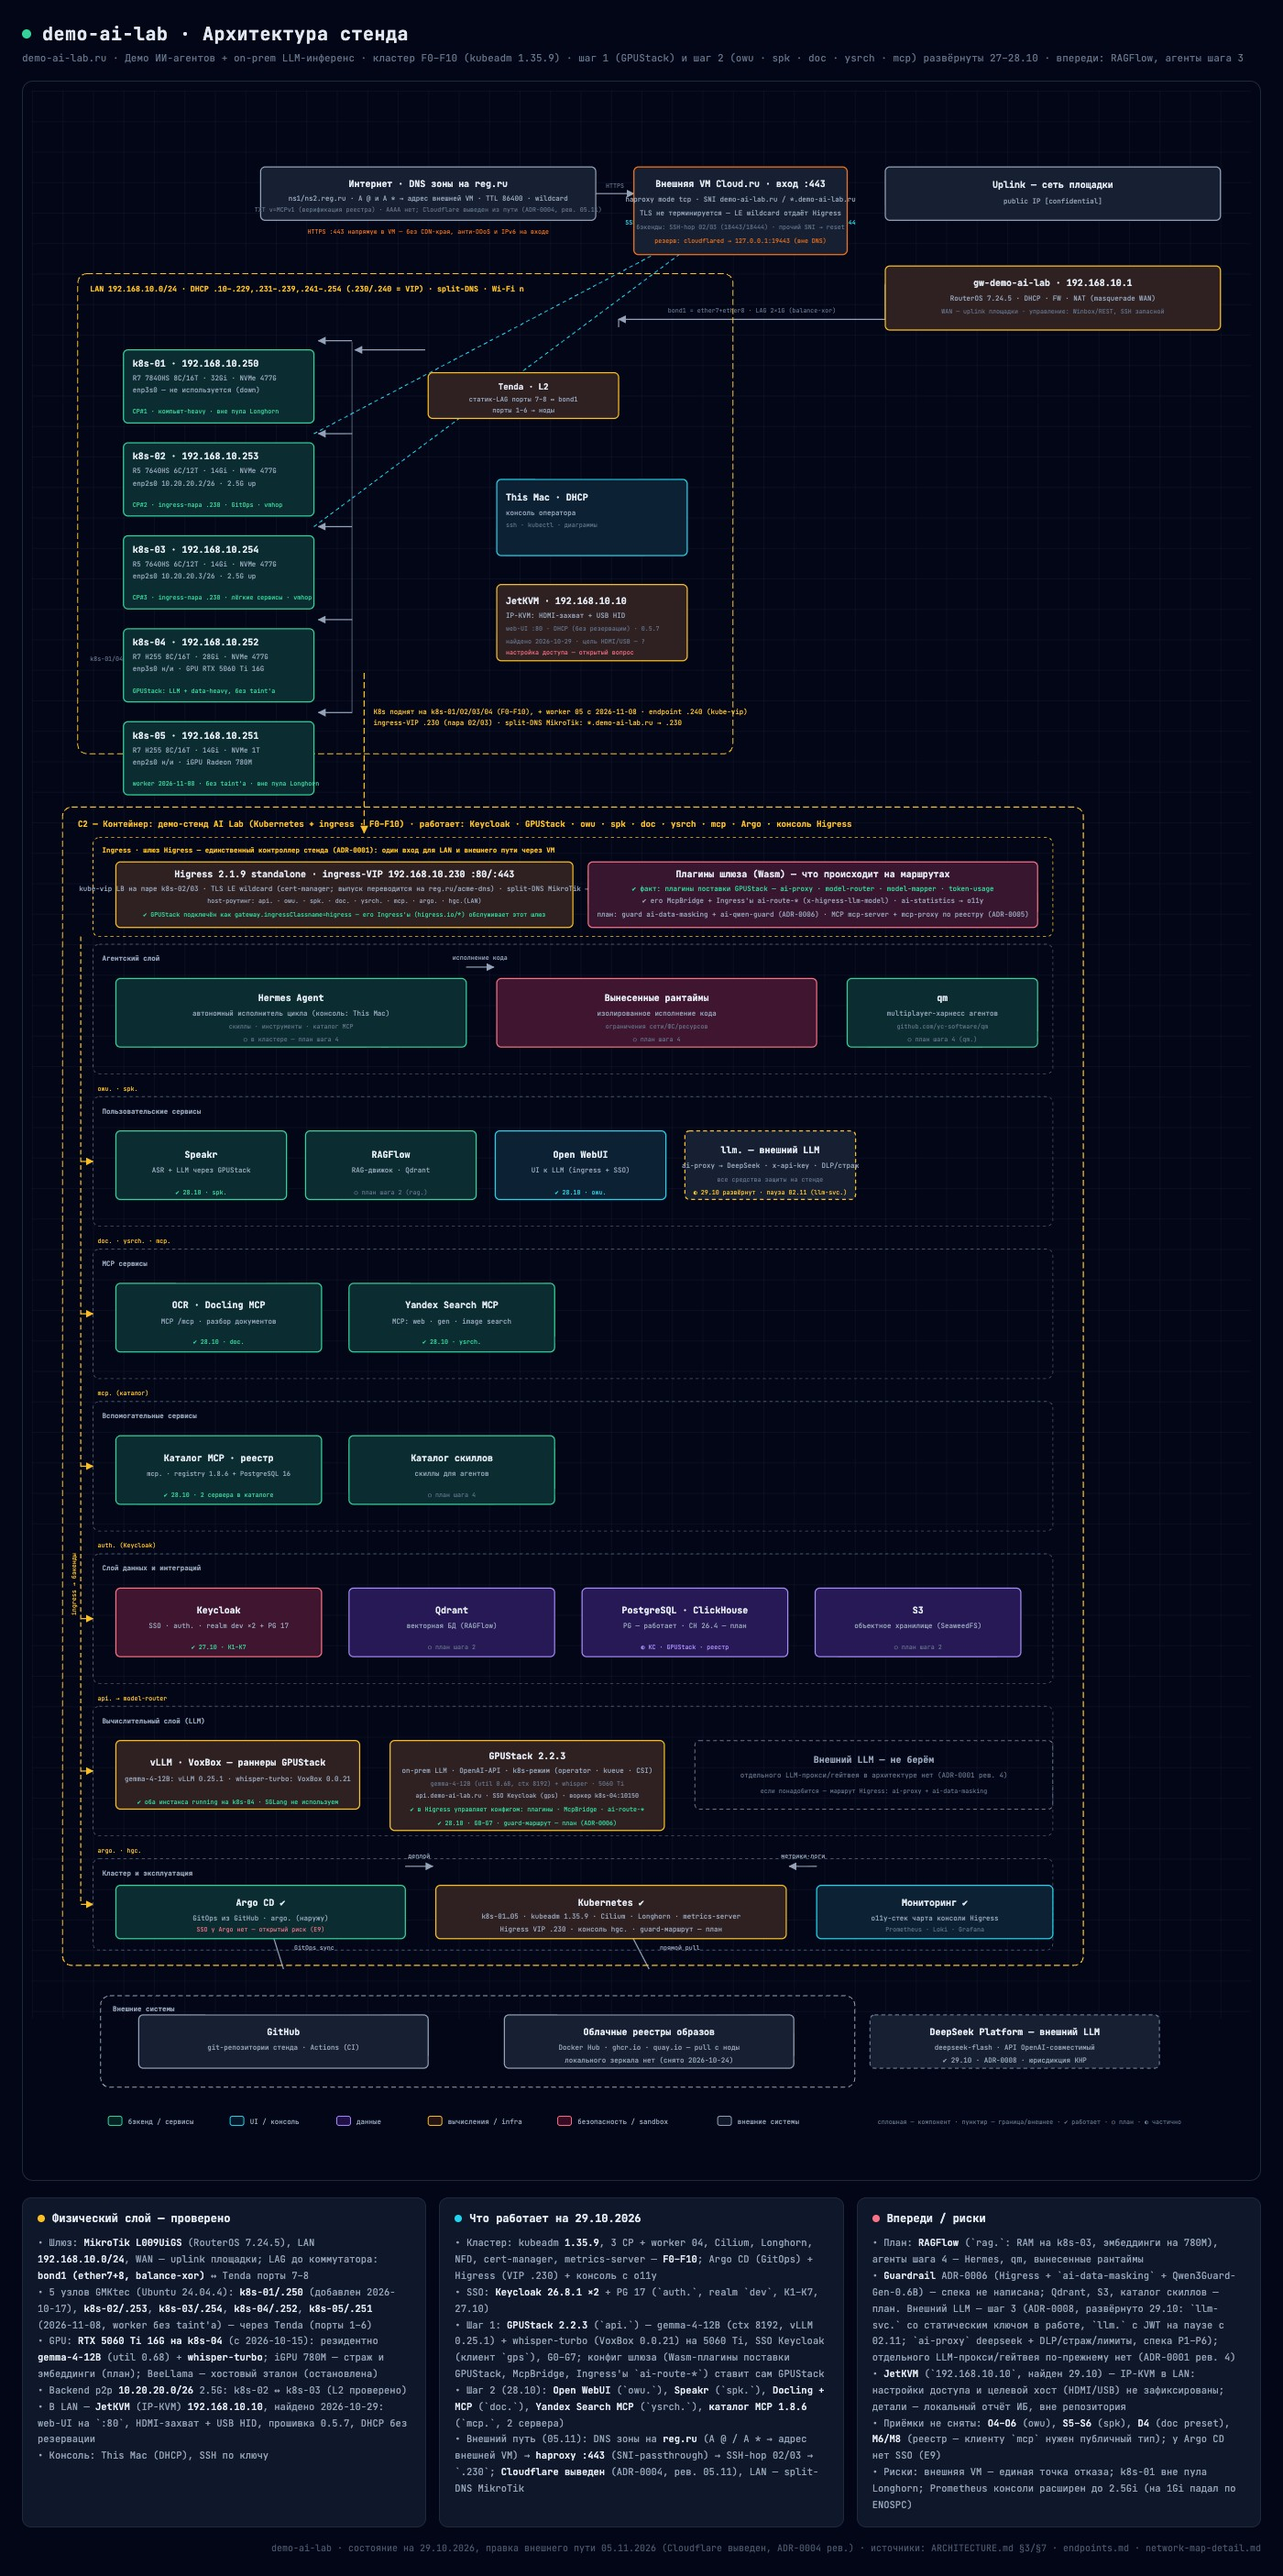
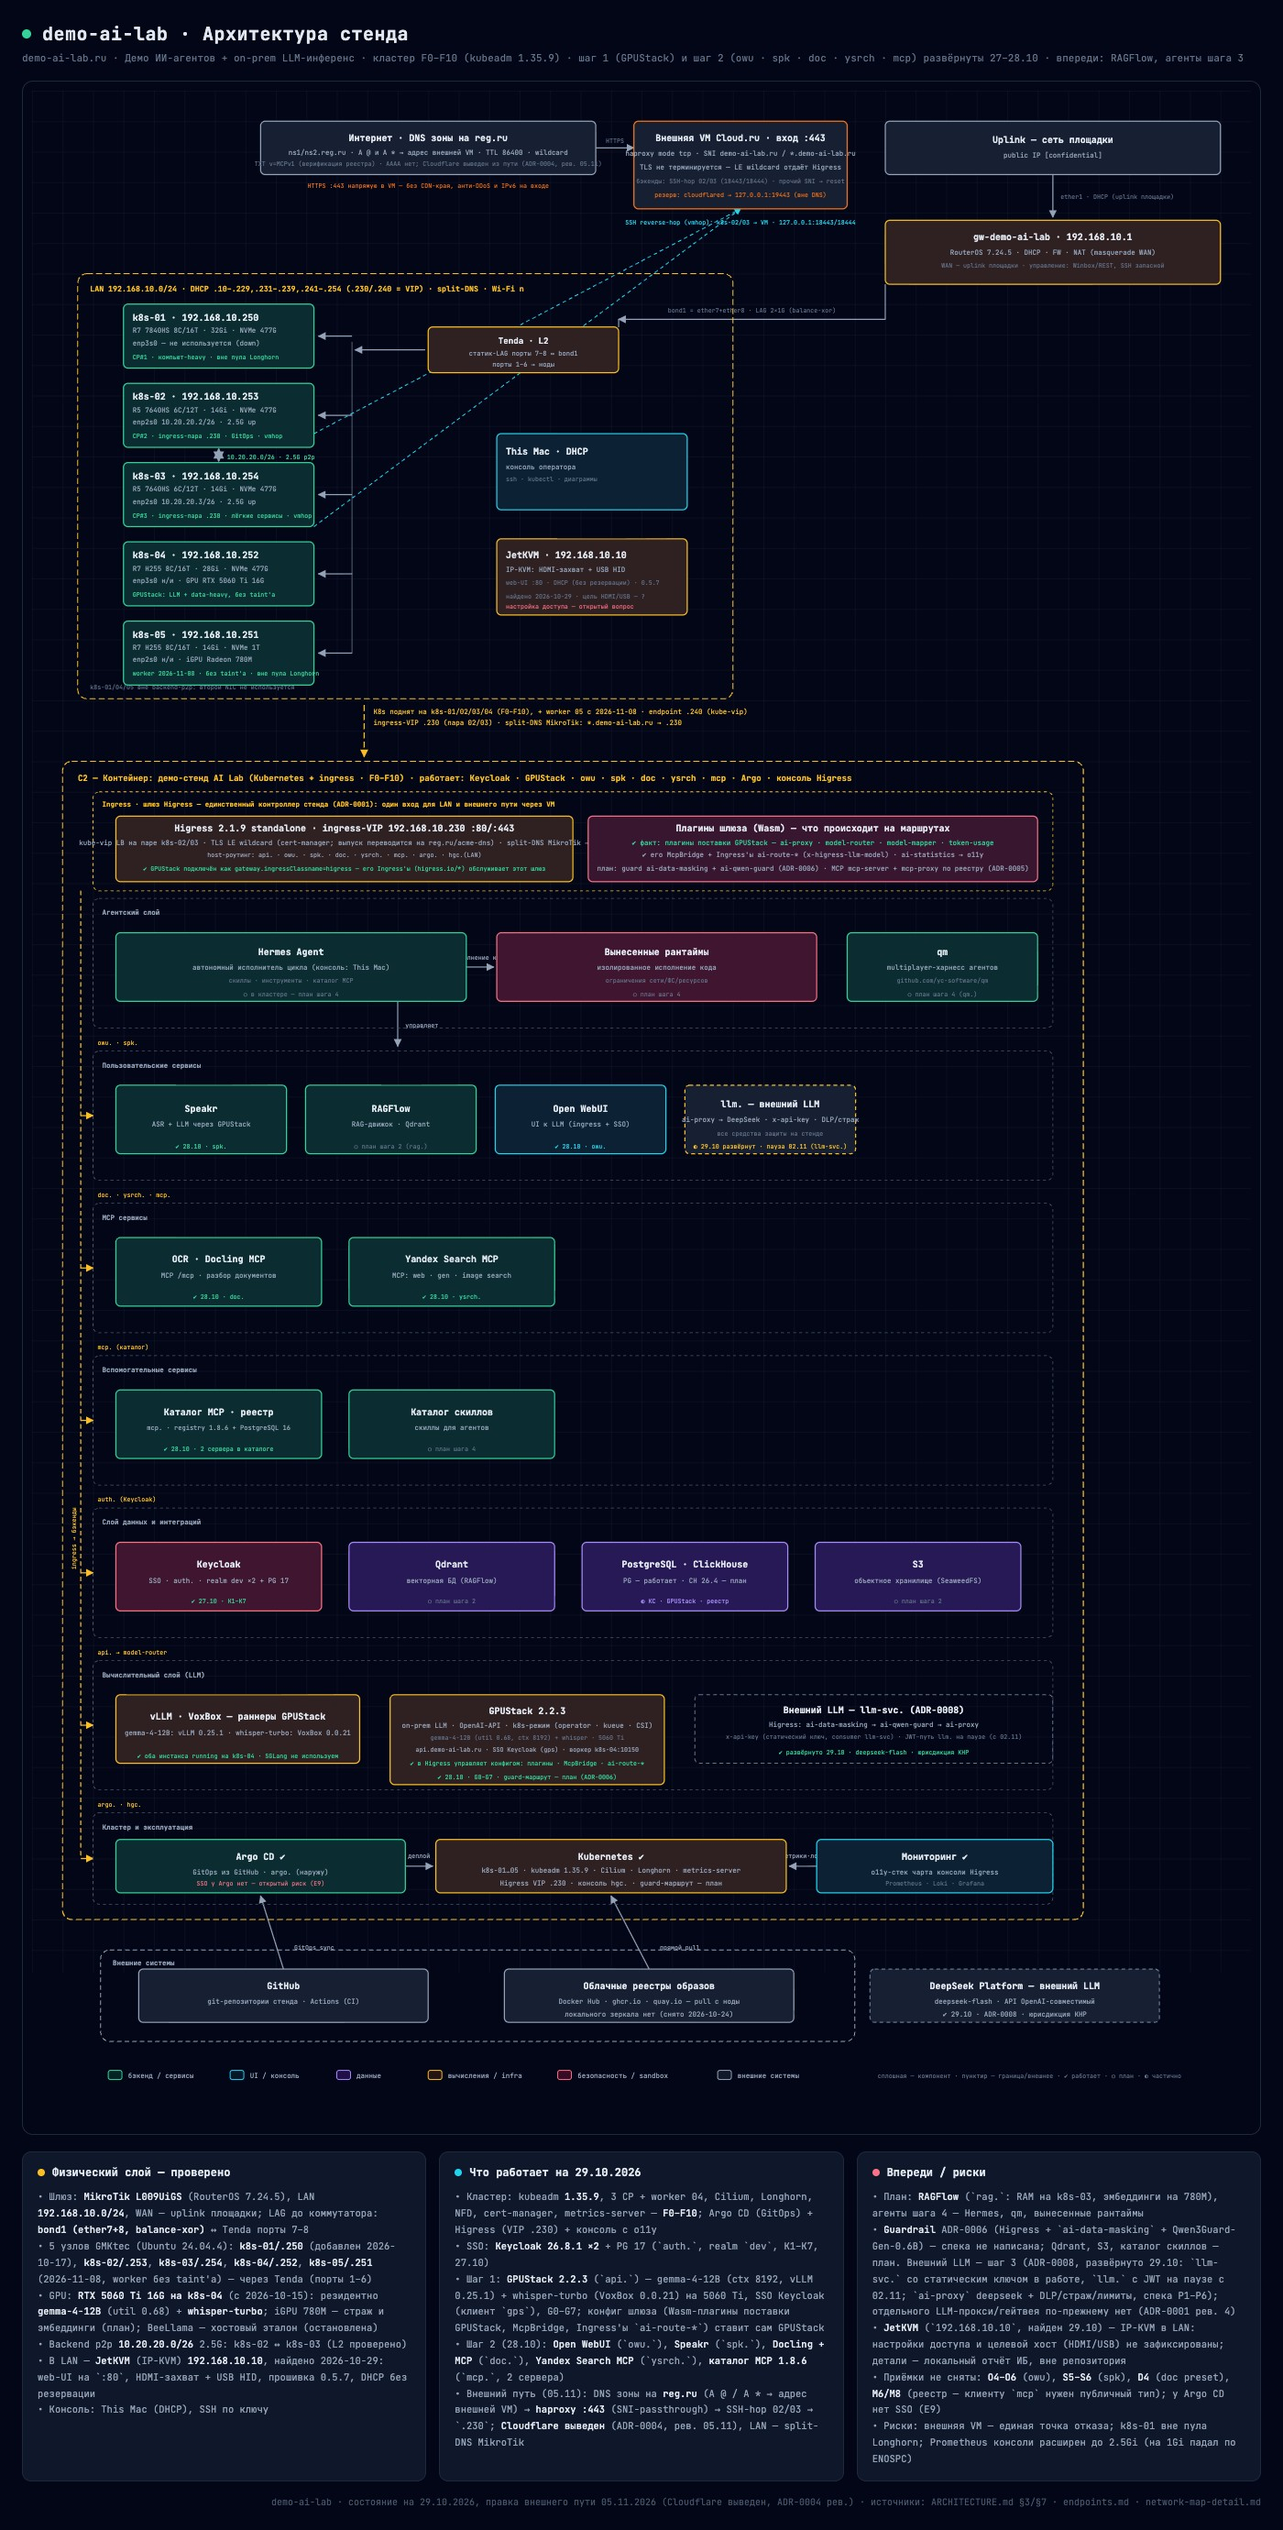
диаграмма: компактная вёрстка LAN (сдвиг C2 отменён), стрелка на границу; карточка внешнего LLM — llm-svc (ADR-0008), не 'не берём'

diff --git a/architecture/demo-ai-lab-architecture.html b/architecture/demo-ai-lab-architecture.html
@@ -58,7 +58,7 @@
 <div class="subtitle">demo-ai-lab.ru · Демо ИИ-агентов + on-prem LLM-инференс · кластер F0–F10 (kubeadm 1.35.9) · шаг 1 (GPUStack) и шаг 2 (owu · spk · doc · ysrch · mcp) развёрнуты 27–28.10 · впереди: RAGFlow, агенты шага 3</div>
 
 <div class="diagram-card">
-<svg viewBox="0 0 1600 2730" xmlns="http://www.w3.org/2000/svg">
+<svg viewBox="0 0 1600 2670" xmlns="http://www.w3.org/2000/svg">
   <defs>
     <pattern id="grid" width="40" height="40" patternUnits="userSpaceOnUse">
       <path d="M 40 0 L 0 0 0 40" fill="none" stroke="#1e293b" stroke-width="0.5"/>
@@ -77,8 +77,8 @@
     </marker>
   </defs>
 
-  <rect width="1600" height="2530" fill="#020617"/>
-  <rect width="1600" height="2530" fill="url(#grid)"/>
+  <rect width="1600" height="2470" fill="#020617"/>
+  <rect width="1600" height="2470" fill="url(#grid)"/>
 
   <!-- ==================== ARROWS (behind boxes) ==================== -->
   <!-- uplink -> mikrotik -->
@@ -91,17 +91,17 @@
   <text x="945" y="291" font-size="8" fill="#64748b" text-anchor="middle">bond1 = ether7+ether8 · LAG 2×1G (balance-xor)</text>
   <!-- tenda -> LAN bus -> nodes -->
   <line x1="516" y1="340" x2="424" y2="340" stroke="#94a3b8" stroke-width="1.5" marker-end="url(#arr)"/>
-  <line x1="420" y1="330" x2="420" y2="816" stroke="#64748b" stroke-width="1"/>
-  <line x1="420" y1="328" x2="376" y2="328" stroke="#94a3b8" stroke-width="1.5" marker-end="url(#arr)"/>
-  <line x1="420" y1="450" x2="376" y2="450" stroke="#94a3b8" stroke-width="1.5" marker-end="url(#arr)"/>
-  <line x1="420" y1="572" x2="376" y2="572" stroke="#94a3b8" stroke-width="1.5" marker-end="url(#arr)"/>
-  <line x1="420" y1="694" x2="376" y2="694" stroke="#94a3b8" stroke-width="1.5" marker-end="url(#arr)"/>
-  <line x1="420" y1="816" x2="376" y2="816" stroke="#94a3b8" stroke-width="1.5" marker-end="url(#arr)"/>
+  <line x1="420" y1="330" x2="420" y2="738" stroke="#64748b" stroke-width="1"/>
+  <line x1="420" y1="322" x2="376" y2="322" stroke="#94a3b8" stroke-width="1.5" marker-end="url(#arr)"/>
+  <line x1="420" y1="426" x2="376" y2="426" stroke="#94a3b8" stroke-width="1.5" marker-end="url(#arr)"/>
+  <line x1="420" y1="530" x2="376" y2="530" stroke="#94a3b8" stroke-width="1.5" marker-end="url(#arr)"/>
+  <line x1="420" y1="634" x2="376" y2="634" stroke="#94a3b8" stroke-width="1.5" marker-end="url(#arr)"/>
+  <line x1="420" y1="738" x2="376" y2="738" stroke="#94a3b8" stroke-width="1.5" marker-end="url(#arr)"/>
   <!-- p2p backend -->
-  <line x1="245" y1="498" x2="245" y2="520" stroke="#34d399" stroke-width="2" marker-start="url(#arr)" marker-end="url(#arr)"/>
-  <text x="256" y="513" font-size="8" fill="#34d399">10.20.20.0/26 · 2.5G p2p</text>
+  <line x1="245" y1="470" x2="245" y2="486" stroke="#34d399" stroke-width="2" marker-start="url(#arr)" marker-end="url(#arr)"/>
+  <text x="256" y="484" font-size="8" fill="#34d399">10.20.20.0/26 · 2.5G p2p</text>
   <!-- bridge: LAN -> C2 -->
-  <line x1="436" y1="764" x2="436" y2="974" stroke="#fbbf24" stroke-width="1.5" stroke-dasharray="8,4" marker-end="url(#arrAmber)"/>
+  <line x1="436" y1="806" x2="436" y2="874" stroke="#fbbf24" stroke-width="1.5" stroke-dasharray="8,4" marker-end="url(#arrAmber)"/>
   <text x="448" y="818" font-size="9" fill="#fbbf24">K8s поднят на k8s-01/02/03/04 (F0–F10), + worker 05 с 2026-11-08 · endpoint .240 (kube-vip)</text>
   <text x="448" y="833" font-size="9" fill="#fbbf24">ingress-VIP .230 (пара 02/03) · split-DNS MikroTik: *.demo-ai-lab.ru → .230</text>
 
@@ -135,12 +135,10 @@
 
   <!-- ==================== BOUNDARIES ==================== -->
   <!-- LAN region -->
-  <rect x="60" y="240" width="860" height="630" rx="12" fill="none" stroke="#fbbf24" stroke-width="1.2" stroke-dasharray="8,4"/>
+  <rect x="60" y="240" width="860" height="558" rx="12" fill="none" stroke="#fbbf24" stroke-width="1.2" stroke-dasharray="8,4"/>
   <text x="76" y="264" font-size="10" fill="#fbbf24" font-weight="700">LAN 192.168.10.0/24 · DHCP .10–.229,.231–.239,.241–.254 (.230/.240 = VIP) · split-DNS · Wi-Fi n</text>
-  <text x="76" y="748" font-size="8" fill="#64748b">k8s-01/04/05 вне backend-p2p: второй NIC не используется</text>
+  <text x="76" y="786" font-size="8" fill="#64748b">k8s-01/04/05 вне backend-p2p: второй NIC не используется</text>
 
-  <!-- C2 container (group shifted down 2026-11-08: gap after LAN) -->
-  <g transform="translate(0,60)">
   <!-- C2 container -->
   <rect x="40" y="880" width="1340" height="1520" rx="12" fill="none" stroke="#fbbf24" stroke-width="1.4" stroke-dasharray="8,4"/>
   <text x="60" y="906" font-size="11" fill="#fbbf24" font-weight="700">C2 — Контейнер: демо-стенд AI Lab (Kubernetes + ingress · F0–F10) · работает: Keycloak · GPUStack · owu · spk · doc · ysrch · mcp · Argo · консоль Higress</text>
@@ -242,44 +240,44 @@
   <text x="645" y="362" font-size="8.5" fill="#94a3b8" text-anchor="middle">порты 1–6 → ноды</text>
 
   <!-- k8s-01 (emerald, new) -->
-  <rect x="120" y="280" width="250" height="96" rx="6" fill="#0f172a"/>
-  <rect x="120" y="280" width="250" height="96" rx="6" fill="rgba(6,78,59,0.4)" stroke="#34d399" stroke-width="1.5"/>
+  <rect x="120" y="280" width="250" height="84" rx="6" fill="#0f172a"/>
+  <rect x="120" y="280" width="250" height="84" rx="6" fill="rgba(6,78,59,0.4)" stroke="#34d399" stroke-width="1.5"/>
   <text x="132" y="302" font-size="12" fill="#e2e8f0" font-weight="700">k8s-01 · 192.168.10.250</text>
-  <text x="132" y="320" font-size="9" fill="#94a3b8">R7 7840HS 8C/16T · 32Gi · NVMe 477G</text>
-  <text x="132" y="336" font-size="9" fill="#94a3b8">enp3s0 — не используется (down)</text>
-  <text x="132" y="364" font-size="8" fill="#34d399">CP#1 · компьют-heavy · вне пула Longhorn</text>
+  <text x="132" y="318" font-size="9" fill="#94a3b8">R7 7840HS 8C/16T · 32Gi · NVMe 477G</text>
+  <text x="132" y="334" font-size="9" fill="#94a3b8">enp3s0 — не используется (down)</text>
+  <text x="132" y="352" font-size="8" fill="#34d399">CP#1 · компьют-heavy · вне пула Longhorn</text>
 
   <!-- k8s-02 (emerald) -->
-  <rect x="120" y="402" width="250" height="96" rx="6" fill="#0f172a"/>
-  <rect x="120" y="402" width="250" height="96" rx="6" fill="rgba(6,78,59,0.4)" stroke="#34d399" stroke-width="1.5"/>
-  <text x="132" y="424" font-size="12" fill="#e2e8f0" font-weight="700">k8s-02 · 192.168.10.253</text>
-  <text x="132" y="442" font-size="9" fill="#94a3b8">R5 7640HS 6C/12T · 14Gi · NVMe 477G</text>
-  <text x="132" y="458" font-size="9" fill="#94a3b8">enp2s0 10.20.20.2/26 · 2.5G up</text>
-  <text x="132" y="486" font-size="8" fill="#34d399">CP#2 · ingress-пара .230 · GitOps · vmhop</text>
+  <rect x="120" y="384" width="250" height="84" rx="6" fill="#0f172a"/>
+  <rect x="120" y="384" width="250" height="84" rx="6" fill="rgba(6,78,59,0.4)" stroke="#34d399" stroke-width="1.5"/>
+  <text x="132" y="406" font-size="12" fill="#e2e8f0" font-weight="700">k8s-02 · 192.168.10.253</text>
+  <text x="132" y="422" font-size="9" fill="#94a3b8">R5 7640HS 6C/12T · 14Gi · NVMe 477G</text>
+  <text x="132" y="438" font-size="9" fill="#94a3b8">enp2s0 10.20.20.2/26 · 2.5G up</text>
+  <text x="132" y="456" font-size="8" fill="#34d399">CP#2 · ingress-пара .230 · GitOps · vmhop</text>
 
   <!-- k8s-03 (emerald) -->
-  <rect x="120" y="524" width="250" height="96" rx="6" fill="#0f172a"/>
-  <rect x="120" y="524" width="250" height="96" rx="6" fill="rgba(6,78,59,0.4)" stroke="#34d399" stroke-width="1.5"/>
-  <text x="132" y="546" font-size="12" fill="#e2e8f0" font-weight="700">k8s-03 · 192.168.10.254</text>
-  <text x="132" y="564" font-size="9" fill="#94a3b8">R5 7640HS 6C/12T · 14Gi · NVMe 477G</text>
-  <text x="132" y="580" font-size="9" fill="#94a3b8">enp2s0 10.20.20.3/26 · 2.5G up</text>
-  <text x="132" y="608" font-size="8" fill="#34d399">CP#3 · ingress-пара .230 · лёгкие сервисы · vmhop</text>
+  <rect x="120" y="488" width="250" height="84" rx="6" fill="#0f172a"/>
+  <rect x="120" y="488" width="250" height="84" rx="6" fill="rgba(6,78,59,0.4)" stroke="#34d399" stroke-width="1.5"/>
+  <text x="132" y="510" font-size="12" fill="#e2e8f0" font-weight="700">k8s-03 · 192.168.10.254</text>
+  <text x="132" y="526" font-size="9" fill="#94a3b8">R5 7640HS 6C/12T · 14Gi · NVMe 477G</text>
+  <text x="132" y="542" font-size="9" fill="#94a3b8">enp2s0 10.20.20.3/26 · 2.5G up</text>
+  <text x="132" y="560" font-size="8" fill="#34d399">CP#3 · ingress-пара .230 · лёгкие сервисы · vmhop</text>
 
   <!-- k8s-04 (emerald) -->
-  <rect x="120" y="646" width="250" height="96" rx="6" fill="#0f172a"/>
-  <rect x="120" y="646" width="250" height="96" rx="6" fill="rgba(6,78,59,0.4)" stroke="#34d399" stroke-width="1.5"/>
-  <text x="132" y="668" font-size="12" fill="#e2e8f0" font-weight="700">k8s-04 · 192.168.10.252</text>
-  <text x="132" y="686" font-size="9" fill="#94a3b8">R7 H255 8C/16T · 28Gi · NVMe 477G</text>
-  <text x="132" y="702" font-size="9" fill="#94a3b8">enp3s0 н/и · GPU RTX 5060 Ti 16G</text>
-  <text x="132" y="730" font-size="8" fill="#34d399">GPUStack: LLM + data-heavy, без taint'а</text>
+  <rect x="120" y="592" width="250" height="84" rx="6" fill="#0f172a"/>
+  <rect x="120" y="592" width="250" height="84" rx="6" fill="rgba(6,78,59,0.4)" stroke="#34d399" stroke-width="1.5"/>
+  <text x="132" y="614" font-size="12" fill="#e2e8f0" font-weight="700">k8s-04 · 192.168.10.252</text>
+  <text x="132" y="630" font-size="9" fill="#94a3b8">R7 H255 8C/16T · 28Gi · NVMe 477G</text>
+  <text x="132" y="646" font-size="9" fill="#94a3b8">enp3s0 н/и · GPU RTX 5060 Ti 16G</text>
+  <text x="132" y="664" font-size="8" fill="#34d399">GPUStack: LLM + data-heavy, без taint'а</text>
 
   <!-- k8s-05 (emerald, добавлена 2026-11-08) -->
-  <rect x="120" y="768" width="250" height="96" rx="6" fill="#0f172a"/>
-  <rect x="120" y="768" width="250" height="96" rx="6" fill="rgba(6,78,59,0.4)" stroke="#34d399" stroke-width="1.5"/>
-  <text x="132" y="790" font-size="12" fill="#e2e8f0" font-weight="700">k8s-05 · 192.168.10.251</text>
-  <text x="132" y="808" font-size="9" fill="#94a3b8">R7 H255 8C/16T · 14Gi · NVMe 1T</text>
-  <text x="132" y="824" font-size="9" fill="#94a3b8">enp2s0 н/и · iGPU Radeon 780M</text>
-  <text x="132" y="852" font-size="8" fill="#34d399">worker 2026-11-08 · без taint'а · вне пула Longhorn</text>
+  <rect x="120" y="696" width="250" height="84" rx="6" fill="#0f172a"/>
+  <rect x="120" y="696" width="250" height="84" rx="6" fill="rgba(6,78,59,0.4)" stroke="#34d399" stroke-width="1.5"/>
+  <text x="132" y="718" font-size="12" fill="#e2e8f0" font-weight="700">k8s-05 · 192.168.10.251</text>
+  <text x="132" y="734" font-size="9" fill="#94a3b8">R7 H255 8C/16T · 14Gi · NVMe 1T</text>
+  <text x="132" y="750" font-size="9" fill="#94a3b8">enp2s0 н/и · iGPU Radeon 780M</text>
+  <text x="132" y="768" font-size="8" fill="#34d399">worker 2026-11-08 · без taint'а · вне пула Longhorn</text>
 
   <!-- Mac (cyan) -->
   <rect x="610" y="450" width="250" height="100" rx="6" fill="#0f172a"/>
@@ -414,9 +412,10 @@
   <text x="650" y="2216" font-size="8" fill="#34d399" text-anchor="middle">✔ 28.10 · G0–G7 · guard-маршрут — план (ADR-0006)</text>
 
   <rect x="870" y="2105" width="470" height="90" rx="6" fill="none" stroke="#64748b" stroke-width="1.2" stroke-dasharray="5,4"/>
-  <text x="1105" y="2134" font-size="12" fill="#94a3b8" text-anchor="middle" font-weight="700">Внешний LLM — не берём</text>
-  <text x="1105" y="2154" font-size="9" fill="#64748b" text-anchor="middle">отдельного LLM-прокси/гейтвея в архитектуре нет (ADR-0001 рев. 4)</text>
-  <text x="1105" y="2174" font-size="8" fill="#64748b" text-anchor="middle">если понадобится — маршрут Higress: ai-proxy + ai-data-masking</text>
+  <text x="1105" y="2129" font-size="12" fill="#e2e8f0" text-anchor="middle" font-weight="700">Внешний LLM — llm-svc. (ADR-0008)</text>
+  <text x="1105" y="2147" font-size="9" fill="#94a3b8" text-anchor="middle">Higress: ai-data-masking → ai-qwen-guard → ai-proxy</text>
+  <text x="1105" y="2163" font-size="8" fill="#64748b" text-anchor="middle">x-api-key (статический ключ, consumer llm-svc) · JWT-путь llm. на паузе (с 02.11)</text>
+  <text x="1105" y="2183" font-size="8" fill="#34d399" text-anchor="middle">✔ развёрнуто 29.10 · deepseek-flash · юрисдикция КНР</text>
 
   <!-- ===== эксплуатация ===== -->
   <rect x="110" y="2295" width="380" height="70" rx="6" fill="#0f172a"/>
@@ -474,7 +473,6 @@
   <rect x="900" y="2598" width="18" height="12" rx="3" fill="rgba(30,41,59,0.5)" stroke="#94a3b8" stroke-width="1.2"/>
   <text x="926" y="2608" font-size="9" fill="#94a3b8">внешние системы</text>
   <text x="1110" y="2608" font-size="8" fill="#64748b">сплошная — компонент · пунктир — граница/внешнее · ✔ работает · ○ план · ◐ частично</text>
-  </g>
 </svg>
 </div>
 
